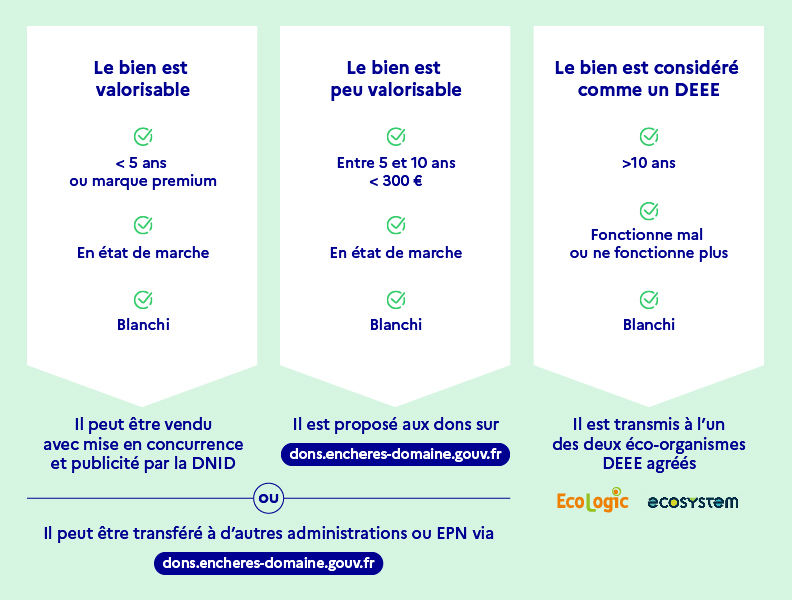
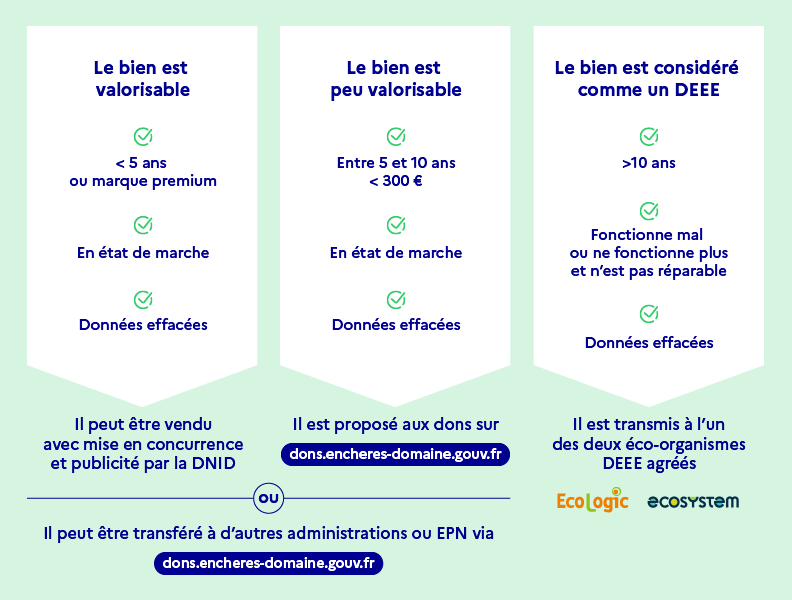
Ajout images fin usage

diff --git a/publications/fin-usage/retour-experience.md b/publications/fin-usage/retour-experience.md
@@ -16,7 +16,7 @@ La **démarche d’économie circulaire** de Pôle Emploi pour son matériel inf
 
 La **dimension environnementale** est prise en compte sur l’ensemble de la chaîne de valeur : achat, usage, fin d’usage. La **dimension sociétale** est également prise en compte avec les emplois générés et des conditions de vie améliorées.
 
-La démarche est organisée par la DSI mais avec l’implication de tous les agents qui sont sensibilisés et participent à des événements comme le Cyber World Cleanup Day.  
+La démarche est organisée par la Direction des Systèmes d'Information (DSI) mais avec l’implication de tous les agents qui sont sensibilisés et participent à des événements comme le Cyber World Cleanup Day.  
 
 **La stratégie de la direction des Systèmes d’Information porte sur 4 axes :**
 
@@ -30,8 +30,7 @@ La démarche est organisée par la DSI mais avec l’implication de tous les age
 **Environnemental : priorité à la seconde vie du matériel :**
 
 - Reconditionnement du matériel fonctionnel
-- Déconstruction ou revalorisation des composants
-
+- Déconstruction ou réutilisation des composants
 
 **Social/Sociétal, dans l’ADN de Pôle Emploi :**
 
@@ -51,7 +50,7 @@ La démarche est organisée par la DSI mais avec l’implication de tous les age
 - Ateliers sans frontières
 - Ateliers du bocage
 - Recyclea
-- Avant-garde (outre-mer)
+- Avant-garde (en outre-mer)
 
 ### Réemploi
 
@@ -62,15 +61,20 @@ La démarche est organisée par la DSI mais avec l’implication de tous les age
 
 ### Processus
 
-#### Processus de déstockage national (90%)
+![](/img/fin-usage/process-pole-emploi.png)
+
+<div class="fr-accordions-group">
+<section class="fr-accordion">
+<h3 class="fr-accordion__title">
+<button class="fr-accordion__btn" aria-expanded="false" aria-controls="figure-processus-destockage">Processus de déstockage national (90%)</button>
+</h3>
+<div class="fr-collapse" id="figure-processus-destockage">
 
 Exemple de projet ou d'action en cours : réflexion sur la création d’une filière de recyclage de matériel adapté avec d’autres organisations pour des matériels rares ou spécifiques comme les claviers braille.
 
-[illustration ?]
-
 1. Etude pour réaffectation en interne avec effacement des données avec l'outil Blancco
 2. Stockage des matériels réformés et constitution de lots (effacement des données et fourniture de l'inventaire)
-3. Réception des fichiers d'inventaire et contrôle par le Pôle DEEE (préparation sortie comptable et demande de devis auprès des prestataires DEEE)
+3. Réception des fichiers d'inventaire et contrôle par le Pôle DEEE (préparation sortie comptable et demande de devis auprès des prestataires DEEE affiliés à des éco-organismes agréés)
 4. Réalisation du devis
 5. Attribution du lot, passation de commande, planification et suivi
     * effacement des données
@@ -79,15 +83,32 @@ Exemple de projet ou d'action en cours : réflexion sur la création d’une fi
     * Reporting (bordereau de suivi de déchets)
 6. Enlèvement du lot
 
-#### Processus de vide-grenier (10%)
+</div>
+</section>
 
-[illustration ?]
+<section class="fr-accordion">
+<h3 class="fr-accordion__title">
+<button class="fr-accordion__btn" aria-expanded="false" aria-controls="figure-processus-videgrenier">Processus de vide-grenier (10%)</button>
+</h3>
+<div class="fr-collapse" id="figure-processus-videgrenier">
 
-#### Processus de dons
+...
+
+</div>
+</section>
+
+<section class="fr-accordion">
+<h3 class="fr-accordion__title">
+<button class="fr-accordion__btn" aria-expanded="false" aria-controls="figure-processus-don">Processus de dons</button>
+</h3>
+<div class="fr-collapse" id="figure-processus-don">
 
 Exemple de projet ou d'action en cours : don de 500 PC auprès de l’association du père Pedro à Madagascar. Vérification de la capacité à réceptionner, installer et utiliser le matériel.
 
-[illustration ?]
+</div>
+</section>
+</div>
+
 
 ## Statistiques
 
@@ -107,13 +128,7 @@ Exemple de projet ou d'action en cours : don de 500 PC auprès de l’associati
 
 ## Coût
 
-La gestion des DEEE mobilise une personne à temps plein à Pôle Emploi.
-
-<div class="fr-highlight">
-
-Le coût de revalorisation oscille entre 1,30 et 6,63 euros par pièce. 
-
-</div>
+La gestion des DEEE mobilise une personne à temps plein à Pôle Emploi. Le coût de prise en charge et de traitement oscille entre 1,30 et 6,63 euros par pièce. Ce coût couvre la prise en charge, l'effacement des données, traitement, déconstruction...
 
 <div class="fr-table">
 
@@ -134,6 +149,6 @@ Le coût de revalorisation oscille entre 1,30 et 6,63 euros par pièce.
 
 ## Bénéfice social
 
-- 200 personnes éloignées de l’emploi ou en situation de handicap employées, soit 1,357 million d'euros économisés par la collectivité.
-- 50 encadrants et commerciaux
-- Soit un total de 250 emplois en moyenne
+- 200 personnes éloignées de l’emploi ou en situation de handicap employées, soit 1,4 million d'euros économisés par la collectivité.
+- 50 encadrants et commerciaux.
+- Soit un total de 250 emplois en moyenne.

diff --git a/publications/fin-usage/enjeux-recyclage.md b/publications/fin-usage/enjeux-recyclage.md
@@ -16,7 +16,7 @@ On entend par déchet, « toute substance ou tout objet, ou plus généralement
 
 <div class="fr-highlight">
 
-Le principe de responsabilité élargie du producteur, selon lequel les producteurs, c’est-à-dire les personnes responsables de la mise sur le marché de certains produits, peuvent être rendus responsables de financer ou d’organiser la prévention et la gestion des déchets issus de ces produits en fin de vie. Les producteurs choisissent généralement de s’organiser collectivement pour assurer ces obligations dans le cadre d’éco-organismes à but non lucratif, agréés par les pouvoirs publics. La France est l’un des pays ayant le plus recours à ce dispositif. En savoir plus : [Cadre général des filières à responsabilité élargie des producteurs](https://www.ecologie.gouv.fr/cadre-general-des-filieres-responsabilite-elargie-des-producteurs) (site du ministère de la Transition écologique)
+Le principe de responsabilité élargie du producteur, selon lequel les producteurs, c’est-à-dire les personnes responsables de la mise sur le marché de certains produits, peuvent être rendus responsables de financer ou d’organiser la prévention et la gestion des déchets issus de ces produits en fin de vie. Les producteurs choisissent généralement de s’organiser collectivement pour assurer ces obligations dans le cadre d’éco-organismes à but non lucratif, agréés par les pouvoirs publics. La France est l’un des pays ayant le plus recours à ce dispositif. Pour en savoir plus, voir [le cadre général des filières à responsabilité élargie des producteurs](https://www.ecologie.gouv.fr/cadre-general-des-filieres-responsabilite-elargie-des-producteurs) (site du ministère de la Transition écologique)
 
 </div>
 
@@ -33,6 +33,14 @@ Selon l'ADEME, [près de 850000 tonnes de DEEE ont été collectés en 2020](htt
 
 ## Valorisation
 
+<figure class="fr-content-media" role="group" aria-label="© Légende de l‘image">
+    <div class="fr-content-media__img">
+        <img src="/img/fin-usage/cartes-et-puces.jpg" class="fr-responsive-img" alt="" />
+    </div>
+    <figcaption class="fr-content-media__caption">Recyclage des cartes électroniques</figcaption>
+</figure>
+
+
 On distingue différents types de valorisation des déchets, dont les définitions précises sont inscrites dans le Code de l'environnement :
 
 * **Réemploi** : toute opération par laquelle des substances, matières ou produits qui ne sont pas des déchets sont utilisés de nouveau pour un usage identique à celui pour lequel ils avaient été conçus.
@@ -41,14 +49,14 @@ On distingue différents types de valorisation des déchets, dont les définitio
 * **Valorisation matière** : toute opération de valorisation autre que la valorisation énergétique et le retraitement en matières destinées à servir de combustible ou d'autre moyen de produire de l'énergie. Elle comprend notamment la préparation en vue de la réutilisation, le recyclage, le remblayage et d'autres formes de valorisation matière telles que le retraitement des déchets en matières premières secondaires à des fins d'ingénierie dans les travaux de construction de routes et d'autres infrastructures.
 * **Recyclage** : toute opération de valorisation par laquelle les déchets, y compris les déchets organiques, sont retraités en substances, matières ou produits aux fins de leur fonction initiale ou à d'autres fins. Les opérations de valorisation énergétique des déchets, celles relatives à la conversion des déchets en combustible et les opérations de remblayage ne peuvent pas être qualifiées d'opérations de recyclage.
 
-![](/img/fin-usage/cartes-et-puces.jpg)
-
 **Les taux de performance**
 
-[illustration]
-[transcription]
+![](/img/fin-usage/taux-de-performance.png)
+
+Selon les chiffres 2020 de l'ADEME : 
 
 * Taux de réutilisation et recyclage : 76 %
+
 * Taux de valorisation: 87 %
 
 ## Les obligations du détenteur de déchets

diff --git a/publications/fin-usage/don.md b/publications/fin-usage/don.md
@@ -16,7 +16,7 @@ eleventyNavigation:
 
 La démarche de réforme des biens informatiques doit s’inscrire dans le cadre de la réglementation et de la démarche des [services publics écoresponsables](https://www.ecologie.gouv.fr/services-publics-ecoresponsables). L’objectif est d’optimiser la valorisation et la gestion durable de ce patrimoine.
 
-[illustration]
+![](/img/fin-usage/frise-chrono-lois.png)
 
 <section class="fr-accordion">
 <h3 class="fr-accordion__title">
@@ -40,12 +40,21 @@ Loi relative à la différenciation, décentralisation, déconcentration et port
 
 ### Quatre cas de cessions
 
+![](/img/fin-usage/conditions-don.png)
+
+<section class="fr-accordion">
+<h3 class="fr-accordion__title">
+<button class="fr-accordion__btn" aria-expanded="false" aria-controls="figure-conditions-don">Transcription</button>
+</h3>
+<div class="fr-collapse" id="figure-conditions-don">
+
 * le bien est valorisable (< 5 ans ou marque premium, en état de marche et les données effacées) ⇒ vente avec mise en concurrence et publicité (article R3211-25 CG3P) par la DNID
 * le bien est peu valorisable (<300€, en état de marche et les données effacées) ⇒ il est proposé aux dons sur le site des dons (article L3212-2 CG3P) 
 * le bien est valorisable ou peu valorisable (en état de marche), il peut être transféré à d’autres administrations ou EPN, via le site des dons  
 * le bien est considéré comme déchet (ne fonctionne plus ou mal) ⇒ il est transmis aux professionnels d’éco-organismes D3E agréés (Ecologic, ecosystem, …).
 
-![](/img/fin-usage/conditions-don.png)
+</div>
+</section>
 
 <div class="fr-highlight">
 
@@ -97,9 +106,13 @@ En dehors du transfert à d’autres administrations, la réglementation des don
 
 <div class="fr-highlight">
 
-**Les dons de matériel informatique représentent 40% des dons** 
+**Les dons de matériel informatique représentent 40% des dons**
 
 </div>
+
+![](/img/fin-usage/don-40-informatique.png)
+
+![](/img/fin-usage/don-stats.png)
 
 <div class="fr-table">
 
